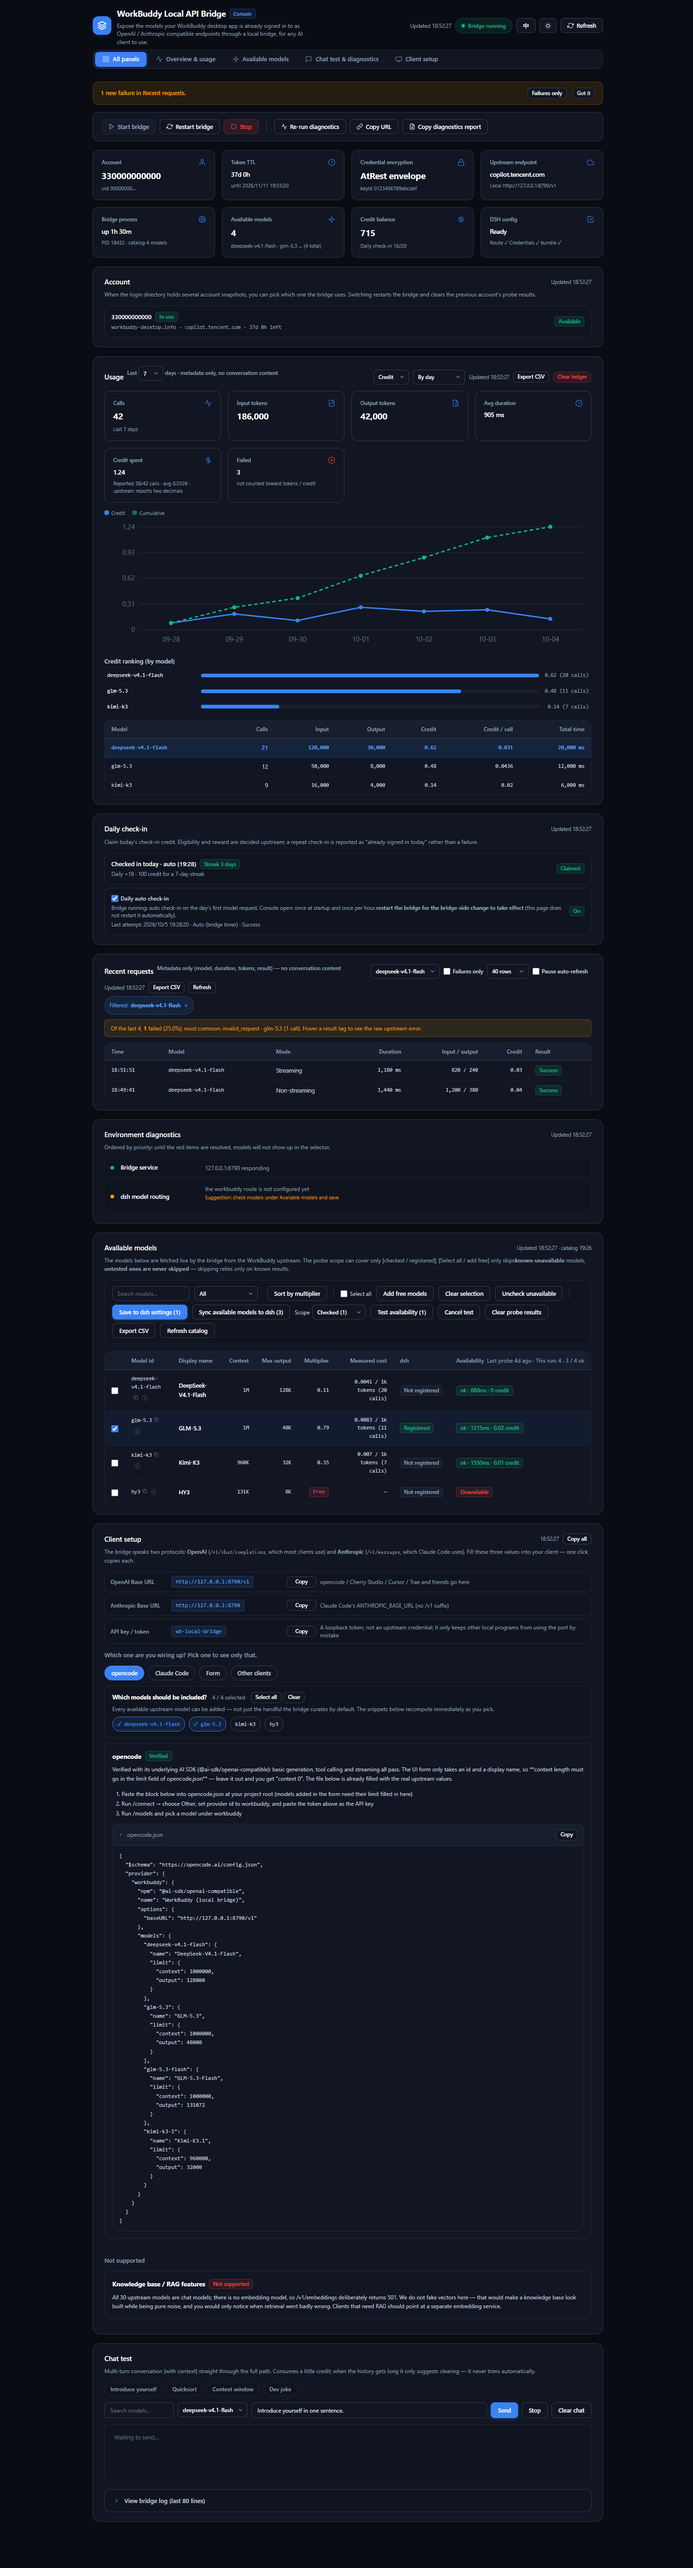
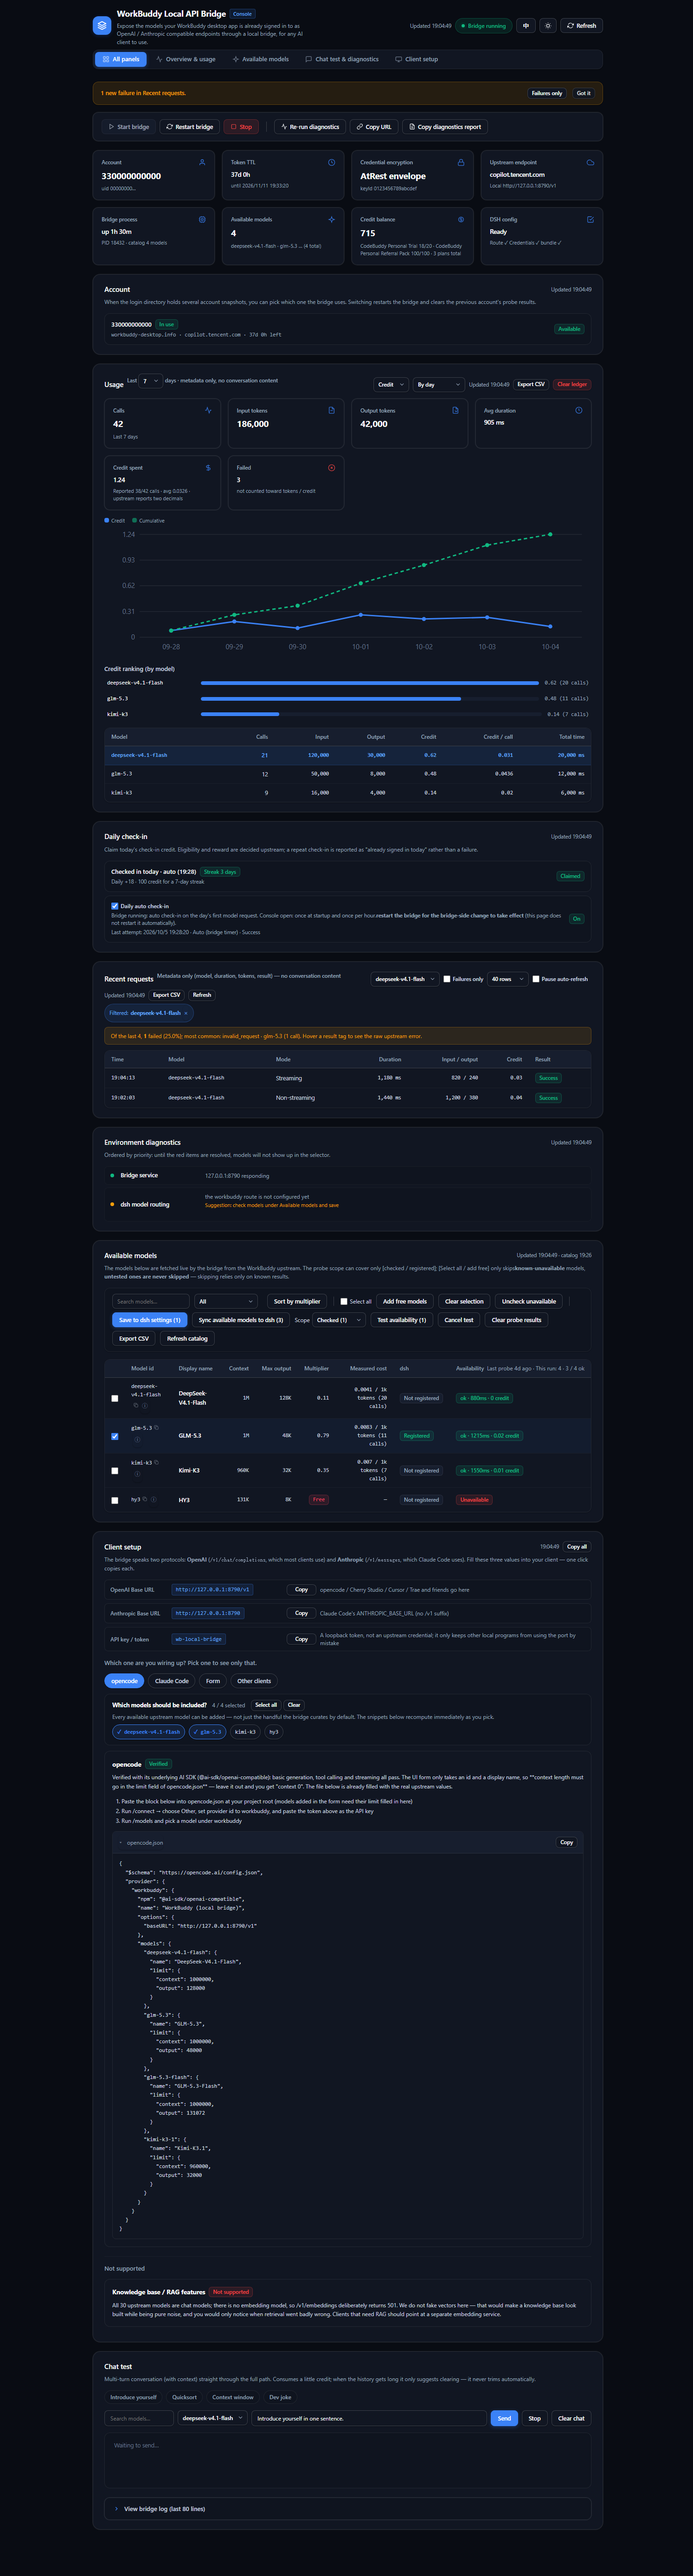
fix(i18n): 权益包名 / 促销标签按「用户看得见」翻，不再当数据放过（v1.4.2）
用户第二次拍到同一类东西：插件与控制台里的 `CodeBuddy个人体验版`、
`CodeBuddy个人版拉新权益包`、`月度 · 到期 …`、徽章 `错峰使用` / `限时折扣`。

**上一版我把权益包名当「上游数据不翻」—— 判断错了。** 界线应该是
「**用户直接看得到吗**」，而不是「数据是谁生成的」。命名有规律、集合不封闭，
就该按「已知名词 + 通用兜底」翻，并接受「上游新增就得补一条」。

## 新增 I18N_TERMS_EN（插件与控制台各一份）

做的是**子串替换**，不是整串查表 —— 因为这些词会出现在**拼接串中间**：
- 控制台积分卡：`名称 余额/总量 · 名称 余额/总量 等 N 个套餐` 一整条文本节点；
- 插件计费周期行：`月度 · 到期 2026-10-31 23:59:59` 两段 join 出来的。

`translateText` 在**规则产物之后**再过一遍这一层（规则产物里仍可能残留名词）。
徽章词条原先在两张表里各有一份，现在**归并到名词表**，避免两处漂移。

## 又是两处「桩没覆盖」

- 插件桩的权益包**没给 monthly / expiresAt** → `月度 · 到期 …` 从来没渲染过；
- 控制台桩**只给 1 个包** → `等 N 个套餐` 只在包数 > 2 时才渲染。

两处都补齐，并且**权益包名与促销标签不再被 ASCII 化** —— 它们是我们**故意**翻的，
留在桩里参与验收（与已知促销标签同一处理）。

## 顺带修掉的一处自伤

用**按行过滤**的脚本删词条时，连「另一张同名表里的条目」一起删掉了 ——
刚加进 I18N_TERMS_EN 的 `限时免费`/`夜间免费`/`夜间折扣` 被误删。
已恢复；教训是**删词条要用带上下文的 Edit，不要用行过滤器**。

## 验证

- `npm run release:check` 六步全绿
- `npm run test:ui` 19 / 19
- `npm run panel:check`：面板截图 4 场景 + i18n 两遍（9 标签页 × 2 组桩，
  且逐个点开下拉 / 分段 / 详情）0 残留中文
- 控制台英文截图实测：积分卡已是
  `CodeBuddy Personal Trial 18/20 · CodeBuddy Personal Referral Pack 100/100 · 3 plans total`

diff --git a/dashboard/public/index.html b/dashboard/public/index.html
@@ -306,17 +306,22 @@ function translateText(text) {
    */
   const folded = s.replace(/\s+/g, ' ').trim();
   if (folded !== s && Object.prototype.hasOwnProperty.call(I18N_EN, folded)) return I18N_EN[folded];
-  if (i18nDepth >= 3) return s;
+  if (i18nDepth >= 3) return applyTerms(s);
   i18nDepth += 1;
   try {
     for (const target of (folded === s ? [s] : [s, folded])) {
       for (const rule of I18N_RULES_EN) {
         const m = target.match(rule[0]);
         if (!m) continue;
-        return typeof rule[1] === 'function' ? rule[1].apply(null, m) : target.replace(rule[0], rule[1]);
+        const out = typeof rule[1] === 'function' ? rule[1].apply(null, m) : target.replace(rule[0], rule[1]);
+        /*
+         * 规则产物里还可能残留**专有名词**（积分卡那条整串里嵌着权益包名），
+         * 所以再过一遍子串替换 —— 这是最后一道。
+         */
+        return applyTerms(out);
       }
     }
-    return s;
+    return applyTerms(s);
   } finally {
     i18nDepth -= 1;
   }
@@ -1055,9 +1060,6 @@ const I18N_EN = {
   '上次体检': 'Last probe',
   // 上游的促销标签（模型对象的 badge 字段）：中文业务文案，会原样显示在表格与详情里。
   // 它没有封闭集合，上游加了新促销词就得往这里补一条。
-  '限时免费': 'Limited-time free',
-  '夜间免费': 'Free at night',
-      '夜间折扣': 'Night discount',
   '本轮': 'This run',
   '· 可用': ' · ok',
   '· 当前': ' · current',
@@ -1406,6 +1408,41 @@ const I18N_EN = {
 
   '已过期': 'Expired',
 };
+
+/**
+ * 上游**专有名词**的对照表：权益包名、促销标签。
+ *
+ * 它们本属数据（上游账单系统 / 促销系统给的），但**用户直接看得到**，
+ * 而且命名有规律、集合不封闭 —— 上游加一个新促销词或新套餐就得补一条。
+ *
+ * 为什么不并进 `I18N_EN`：这些词会出现在**拼接串中间**。控制台的积分卡是
+ * `名称 余额/总量 · 名称 余额/总量 等 N 个套餐` 这样一整条文本节点，
+ * 整串查表与整串规则都够不着，只能做**子串替换**（见 applyTerms）。
+ */
+const I18N_TERMS_EN = {
+  // 权益包名（`CodeBuddy` + 个人版 / 个人体验版 + 权益包类型）
+  'CodeBuddy个人版拉新权益包': 'CodeBuddy Personal Referral Pack',
+  'CodeBuddy个人版国内运营裂变包': 'CodeBuddy Personal Domestic Viral Pack',
+  'CodeBuddy个人体验版': 'CodeBuddy Personal Trial',
+  // 兜底：上游换一个新套餐类型时，至少把「个人版 / 个人体验版」这半截换掉
+  '个人体验版': ' Personal Trial',
+  '个人版': ' Personal',
+  // 促销标签（模型对象的 badge / tags 里的 `badge:标签:#色`）
+  '限时免费': 'Limited-time free',
+  '限时折扣': 'Limited-time discount',
+  '夜间免费': 'Free at night',
+  '夜间折扣': 'Night discount',
+  '错峰使用': 'Off-peak use',
+};
+
+/** 把已知专有名词按**子串**替换掉（整串查表 / 规则之后的最后一道）。 */
+function applyTerms(s) {
+  let out = s;
+  for (const [zh, en] of Object.entries(I18N_TERMS_EN)) {
+    if (out.indexOf(zh) !== -1) out = out.split(zh).join(en);
+  }
+  return out;
+}
 /* ---------------------------------------------------------------------------
  * 动态串规则：**拼出来**的文案（计数、时长、状态组合）没法进词条表，
  * 用「正则 → 替换」兜住。数组顺序即优先级，**具体规则必须排在通用规则前面**。
@@ -1599,6 +1636,8 @@ const I18N_RULES_EN = [
   [/^最近 60 秒内有 (\d+) 条请求，会打断正在进行的调用。$/,
     '$1 request(s) in the last 60 seconds; restarting will interrupt in-flight calls.'],
   [/^最近请求里有 (\d+) 条新的失败。$/, (m, n) => n + (n === '1' ? ' new failure' : ' new failures') + ' in Recent requests.'],
+  /* 积分卡的套餐摘要：`名称 余额/总量 · 名称 余额/总量 等 N 个套餐`（权益包名靠 applyTerms 兜） */
+  [/^(.*) 等 (\d+) 个套餐$/, (m, head, n) => head + ' · ' + n + ' plans total'],
   /*
    * 令牌临期提醒。这条是源码侧扫描（tools/dev/check-i18n-coverage.mjs）查出来的 ——
    * 它平时只在「令牌不到 7 天」时才渲染，DOM 扫描那套验收碰不到。

diff --git a/dsh-plugin/lib/client.js b/dsh-plugin/lib/client.js
@@ -658,9 +658,6 @@ body.dark .wb-root,
        * 与控制台词条表里那两条保持一致 —— 未知徽章不翻（那是数据，
        * 上游随时会加新的，宁可原样显示）。
        */
-      '限时免费': 'Limited-time free',
-      '夜间免费': 'Free at night',
-      '夜间折扣': 'Night discount',
       '未测': 'Not tested',
       '测': 'Test',
       '测…': 'Testing…',
@@ -743,6 +740,43 @@ body.dark .wb-root,
       '体检完成：': 'Probe finished: ',
     };
 
+    /**
+     * 上游**专有名词**的对照表：权益包名、促销标签。
+     *
+     * 它们本属数据（上游账单系统 / 促销系统给的），但**用户直接看得到**，
+     * 而且命名有规律、集合不封闭 —— 上游加一个新促销词或新套餐就得补一条。
+     *
+     * 为什么不并进 `I18N_EN`：这些词会出现在**拼接串中间**
+     * （`CodeBuddy个人版拉新权益包 568 / 1000` 这类，甚至更长的汇总串），
+     * 整串查表与整串规则都够不着，只能做**子串替换**（见 applyTerms）。
+     */
+    const I18N_TERMS_EN = {
+      // 权益包名（`CodeBuddy` + 个人版 / 个人体验版 + 权益包类型）
+      'CodeBuddy个人版拉新权益包': 'CodeBuddy Personal Referral Pack',
+      'CodeBuddy个人版国内运营裂变包': 'CodeBuddy Personal Domestic Viral Pack',
+      'CodeBuddy个人体验版': 'CodeBuddy Personal Trial',
+      // 兜底：上游换一个新套餐类型时，至少把「个人版 / 个人体验版」这半截换掉
+      '个人体验版': ' Personal Trial',
+      '个人版': ' Personal',
+      // 促销标签（模型对象的 badge / tags 里的 `badge:标签:#色`）
+      '限时免费': 'Limited-time free',
+      '限时折扣': 'Limited-time discount',
+      '夜间免费': 'Free at night',
+      '夜间折扣': 'Night discount',
+      '错峰使用': 'Off-peak use',
+    };
+
+    /** 把已知专有名词按**子串**替换掉（整串查表 / 规则之后的最后一道）。 */
+    function applyTerms(s) {
+      let out = s;
+      const keys = Object.keys(I18N_TERMS_EN);
+      for (let i = 0; i < keys.length; i += 1) {
+        const zh = keys[i];
+        if (out.indexOf(zh) !== -1) out = out.split(zh).join(I18N_TERMS_EN[zh]);
+      }
+      return out;
+    }
+
     /*
      * 拼接串的规则表。**顺序即优先级**：最具体的放最前面。
      * 通用规则（如 `^(.+) 次$`）一旦排在前面，会把更长的整串抢走，
@@ -810,6 +844,9 @@ body.dark .wb-root,
       [/^建议：(.+)$/, (m, h) => 'Suggestion: ' + translateText(h)],
       /* 概览：权益包计数 + 归属账号 */
       [/^归属账号 (.+)（与桥一致）$/, 'Owner account $1 (matches the bridge)'],
+      /* 权益包的计费周期行：`月度 · 到期 2026-10-31 23:59:59`（两段 join 出来的） */
+      [/^月度 · 到期 (.+)$/, 'Monthly · expires $1'],
+      [/^到期 (.+)$/, 'expires $1'],
 
       /*
        * ── 下面这几条都是「桩没走到的分支」，靠 `tools/dev/check-i18n-coverage.mjs`
@@ -947,16 +984,18 @@ body.dark .wb-root,
       if (text == null || LANG === 'zh') return text;
       const s = String(text);
       if (Object.prototype.hasOwnProperty.call(I18N_EN, s)) return I18N_EN[s];
-      if (i18nDepth >= 3) return s;
+      if (i18nDepth >= 3) return applyTerms(s);
       i18nDepth += 1;
       try {
         for (let i = 0; i < I18N_RULES_EN.length; i += 1) {
           const rule = I18N_RULES_EN[i];
           const m = s.match(rule[0]);
           if (!m) continue;
-          return typeof rule[1] === 'function' ? rule[1].apply(null, m) : s.replace(rule[0], rule[1]);
+          const out = typeof rule[1] === 'function' ? rule[1].apply(null, m) : s.replace(rule[0], rule[1]);
+          // 规则产物里还可能残留**专有名词**（权益包名会嵌在拼接串中间），再过一道
+          return applyTerms(out);
         }
-        return s;
+        return applyTerms(s);
       } finally {
         i18nDepth -= 1;
       }

diff --git a/CHANGELOG.md b/CHANGELOG.md
@@ -32,6 +32,23 @@
 
 ### Fixed
 
+- **权益包名与促销标签：新增「专有名词」层**。它们本属上游数据，但**用户直接看得到**，
+  命名有规律且集合不封闭（上游换个促销词就多一个）。之前我只把它们当数据不翻 ——
+  用户连着两次实拍指出来，说明判断错了。现在新增 `I18N_TERMS_EN`
+  做**子串替换**（不是整串查表）：
+  - 权益包名 `CodeBuddy个人体验版` / `CodeBuddy个人版拉新权益包` /
+    `CodeBuddy个人版国内运营裂变包`，外加 `个人版` / `个人体验版` 的通用兜底；
+  - 促销标签 `限时免费` / `限时折扣` / `夜间免费` / `夜间折扣` / `错峰使用`。
+
+  **为什么要单独一层**：这些词会出现在**拼接串中间** —— 控制台的积分卡是
+  `名称 余额/总量 · 名称 余额/总量 等 N 个套餐` 一整条文本节点，
+  插件那边是 `月度 · 到期 2026-10-31 23:59:59` 两段 join 出来的，
+  整串查表与整串规则都够不着。规则产物之后还会再过一遍这一层。
+  徽章词条原先在两张表里各有一份，现在**归并到名词表**，避免两处漂移。
+- **插件：权益包的计费周期行** `月度 · 到期 2026-10-31 23:59:59` 漏翻
+  （桩里没给 `monthly` / `expiresAt`，这行从来没渲染过）。
+- **控制台：积分卡的 `等 N 个套餐`** 漏翻（桩只给了一个包，
+  `包数 > 2` 那条分支永远不渲染）。
 - **控制台：`t()` 不折叠空白，导致按折叠文本写的规则对不上**。DOM 文本节点在
   `i18nTranslateNode` 里折叠过空白，而 `t()`（原生 confirm / alert 与代码里主动
   拼接用的）没有 —— 于是「写入 dsh 设置」那个二次确认弹窗**整段还是中文**。
